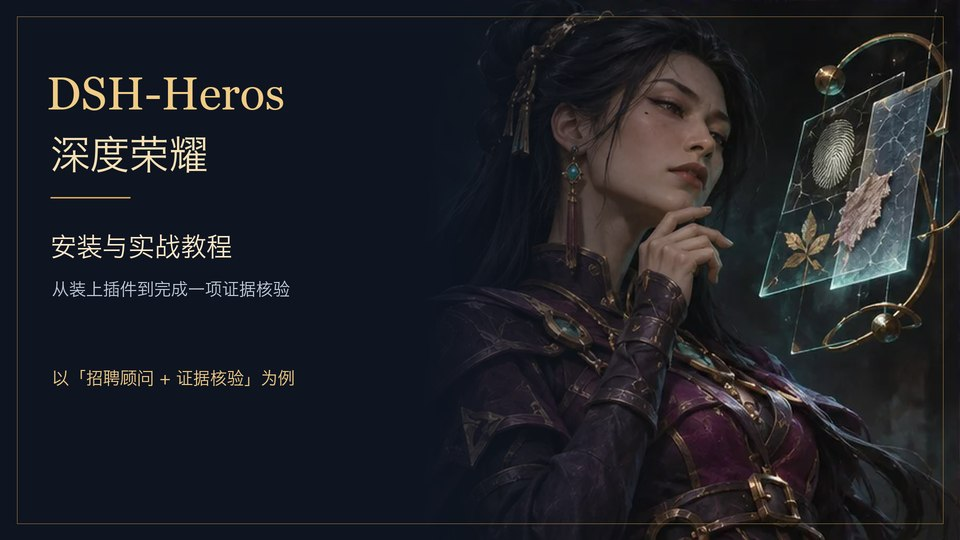
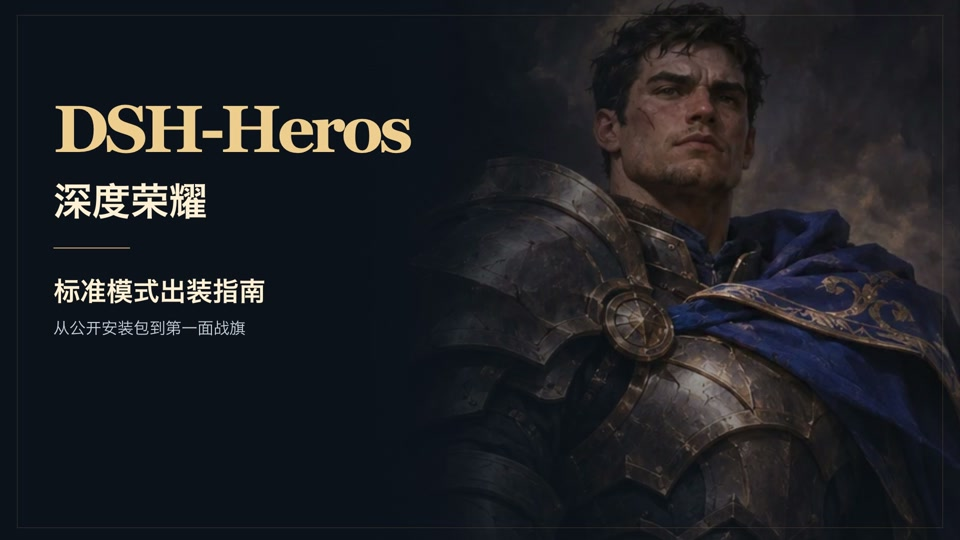
Demonstrate Standard Mode in both narrated videos

diff --git a/README.md b/README.md
@@ -4,11 +4,11 @@
 
 Choose a hero, equip real tools and plugins, and take that loadout into a DeepSeek Harness session.
 
-| [Introduction · 32 sec](https://github.com/pearjelly/dsh-heros/releases/download/v0.67.1/dsh-heros-promo-zh.mp4) | [Installation and walkthrough · 3 min 13 sec](https://github.com/pearjelly/dsh-heros/releases/download/v0.67.1/dsh-heros-install-guide.mp4) |
+| [Introduction · 18 sec](https://github.com/pearjelly/dsh-heros/releases/download/v0.67.1/dsh-heros-promo-standard-zh.mp4) | [Installation and Standard Mode walkthrough · 1 min 22 sec](https://github.com/pearjelly/dsh-heros/releases/download/v0.67.1/dsh-heros-standard-guide-zh.mp4) |
 | --- | --- |
-| <a href="https://github.com/pearjelly/dsh-heros/releases/download/v0.67.1/dsh-heros-promo-zh.mp4"><img src="docs/media/dsh-heros-preview.gif" width="420" alt="Watch the DSH-Heros introduction"></a> | <a href="https://github.com/pearjelly/dsh-heros/releases/download/v0.67.1/dsh-heros-install-guide.mp4"><img src="docs/media/dsh-heros-install-guide.jpg" width="420" alt="Watch the DSH-Heros installation and walkthrough"></a> |
+| <a href="https://github.com/pearjelly/dsh-heros/releases/download/v0.67.1/dsh-heros-promo-standard-zh.mp4"><img src="docs/media/dsh-heros-preview.gif" width="420" alt="Watch the DSH-Heros introduction"></a> | <a href="https://github.com/pearjelly/dsh-heros/releases/download/v0.67.1/dsh-heros-standard-guide-zh.mp4"><img src="docs/media/dsh-heros-install-guide.jpg" width="420" alt="Watch the DSH-Heros installation and Standard Mode walkthrough"></a> |
 
-Both videos have Mandarin narration and Simplified Chinese captions. The walkthrough shows a release install, a live **Recruiting Advisor + Evidence Check** session, and the trial reward. To follow along, copy the example into **First-turn task (optional)** in the opening quest. [Fictional recruiting case (Chinese)](docs/demo/recruiting-evidence.zh.txt)
+Both videos have Mandarin narration and Simplified Chinese captions. In the walkthrough, Standard Mode finds and delivers a supply card, unlocks a banner, and resumes the same conversation with new gear. [Sample files and first-turn task](docs/demo/lighthouse)
 
 ## Install
 
@@ -25,10 +25,10 @@ Open **DSH-Heros** in the sidebar. It follows **Settings → General → Languag
 
 ## Try a loadout
 
-1. Choose **Recruiting Advisor** in the hero gallery.
-2. Equip **Evidence Check**. Open **Compare loadouts** to see what it adds, then **Lock in & start**.
-3. Use **Check key evidence** from **Session gear**. If a material claim lacks a source, DSH can ask whether to gather more evidence, qualify the recommendation, or pause submission.
-4. Review the outcome and claim a gear trial. Successful turns and actual tool calls earn XP. Higher levels unlock frames, signature gear, and staged combo challenges.
+1. Keep **Standard** selected. Search the armory for `glob` and choose **Try on a hero**.
+2. Add **Deliverable Preview** as the second item. Review the capability changes and prepare a basic same-round combo.
+3. In the opening quest, name the challenge and add the first-turn task. Lock in, open the task, and send it. In the example, `glob` finds the file and `present` delivers it to the conversation.
+4. Open the delivered file and claim the combo reward. Inspect your banner or choose **Return to lobby**, change gear, and use **Lock in & continue** to resume the conversation.
 
 Installed presets and tools appear as DSH discovers them. Tools with multiple sources retain the chosen provider. The armory can import compatible bundles and configure standalone modules. Levels affect appearance and challenge options.
 

diff --git a/README.zh.md b/README.zh.md
@@ -4,11 +4,11 @@
 
 在 DeepSeek Harness 里选英雄、配装备，再用这套阵容开始实际工作。
 
-| [推介片 · 32 秒](https://github.com/pearjelly/dsh-heros/releases/download/v0.67.1/dsh-heros-promo-zh.mp4) | [安装与实战教程 · 3 分 13 秒](https://github.com/pearjelly/dsh-heros/releases/download/v0.67.1/dsh-heros-install-guide.mp4) |
+| [推介片 · 18 秒](https://github.com/pearjelly/dsh-heros/releases/download/v0.67.1/dsh-heros-promo-standard-zh.mp4) | [安装与标准模式实战 · 1 分 22 秒](https://github.com/pearjelly/dsh-heros/releases/download/v0.67.1/dsh-heros-standard-guide-zh.mp4) |
 | --- | --- |
-| <a href="https://github.com/pearjelly/dsh-heros/releases/download/v0.67.1/dsh-heros-promo-zh.mp4"><img src="docs/media/dsh-heros-preview.gif" width="420" alt="观看深度荣耀推介片"></a> | <a href="https://github.com/pearjelly/dsh-heros/releases/download/v0.67.1/dsh-heros-install-guide.mp4"><img src="docs/media/dsh-heros-install-guide.jpg" width="420" alt="观看深度荣耀安装与实战教程"></a> |
+| <a href="https://github.com/pearjelly/dsh-heros/releases/download/v0.67.1/dsh-heros-promo-standard-zh.mp4"><img src="docs/media/dsh-heros-preview.gif" width="420" alt="观看深度荣耀推介片"></a> | <a href="https://github.com/pearjelly/dsh-heros/releases/download/v0.67.1/dsh-heros-standard-guide-zh.mp4"><img src="docs/media/dsh-heros-install-guide.jpg" width="420" alt="观看深度荣耀安装与标准模式实战"></a> |
 
-两支视频均配有普通话解说和简体中文字幕。教程从安装发布包开始，实录 **招聘顾问 + 证据核验** 开局、在提问卡上选择「暂缓提交」及试炼结算。跟着操作时，把示例复制到开局委托的 **首回合任务（选填）**。[虚构招聘案例材料](docs/demo/recruiting-evidence.zh.txt)
+两支视频均配有普通话解说和简体中文字幕。教程实录标准模式试装、交付灯塔补给卡、解锁战旗，以及带着原对话回城换装续战。[补给卡和首回合任务](docs/demo/lighthouse)
 
 ## 安装
 
@@ -25,9 +25,9 @@ dsh web
 
 ## 试一套出装
 
-1. 在英雄图鉴里选择 **招聘顾问**。
-2. 装备 **证据核验**，在 **阵容对照** 查看新增能力，再点 **锁定阵容并开局**。
-3. 在 **对局装备** 里打开 **核对关键证据**。关键事实缺少来源时，可在 DSH 提问卡上选择继续补证、降级推荐或暂缓提交。
-4. 核对结果并验收装备试炼。成功回合和实际工具调用会结算经验，解锁边框、招牌装备和分阶段连携。
+1. 保留 **标准模式**。在装备库搜索 `glob`，点 **给英雄试装**。
+2. 选 **交付物预览** 作第二件装备。看过试装前后的能力变化后，点 **试装并筹备连携**，选 **同回合基础连携**。
+3. 在开局委托中填写任务目标和 **首回合任务（选填）**。锁定阵容后，点 **打开首回合任务** 并发送。演示中 `glob` 找到文件，`present` 把文件交付到对话。
+4. 打开交付的文件确认结果，验收后领取战旗和经验。点 **回城换装**，调整装备后用 **锁定阵容并续战** 接着做。
 
 DSH 已注册的预设、工具和插件会进入英雄图鉴或装备库。同一工具有多个来源时，可以指定具体来源。[完整使用说明](agent-loadout/README.md)

diff --git a/docs/demo/lighthouse/README.md b/docs/demo/lighthouse/README.md
@@ -1,0 +1,11 @@
+# 灯塔补给行动 · Lighthouse Supply Run
+
+三张补给卡是虚构的演示材料。把三张卡和 `AGENTS.md` 放进一个空目录，在 DSH 中把它添加为工作区。`AGENTS.md` 提醒模型在同一回合先查找再交付。
+
+在深度荣耀选 **标准模式**，给 `glob` 试装 **交付物预览**，选择 **同回合基础连携**。开局委托的任务目标填「灯塔补给行动」，把 [任务文本](first-turn.zh.txt) 粘到 **首回合任务（选填）**。开局后发送任务。确认对话里的 `02-灯塔.md` 能打开，再验收委托。
+
+Copy the three fictional supply cards and `AGENTS.md` into an empty folder and add it as a DSH workspace. The instructions guide the model through both tools in one turn. Use `glob` and **Deliverable Preview** in a basic same-round combo. Paste the [sample prompt](first-turn.zh.txt) into the optional first-turn task, then send it from the session. Open `02-灯塔.md` from the conversation and claim the combo reward.
+
+- [山口驿站 · Mountain Pass Station](01-驿站.md)
+- [北岸灯塔 · North Shore Lighthouse](02-灯塔.md)
+- [旧木桥 · Old Wooden Bridge](03-旧桥.md)

diff --git a/docs/demo/lighthouse/AGENTS.md b/docs/demo/lighthouse/AGENTS.md
@@ -1,0 +1,6 @@
+# 灯塔补给卡 / Lighthouse supply card
+
+For the lighthouse quest, success requires exactly these two tools in the same user turn, in this order:
+
+1. Call `glob` with `{"pattern":"[0-9][0-9]-*.md"}` in the current working directory.
+2. As soon as glob lists the files, call `present` with `{"files":[{"path":"02-灯塔.md","description":"北岸灯塔补给卡"}]}`. The Markdown file is already complete and exists in this workspace. The user needs to open it in DSH. After glob returns, the next assistant output must be a call to present, not a text message. Do not write a final answer before the `present` tool returns successfully.

diff --git a/docs/demo/lighthouse/02-灯塔.md b/docs/demo/lighthouse/02-灯塔.md
@@ -1,0 +1,7 @@
+# 北岸灯塔 · 补给卡
+
+**徽记**　金色航标\
+**补给点**　二层瞭望台\
+**可领取**　灯油 × 2、信号旗 × 1
+
+沿石阶登上二层，在面海的一侧找到补给箱。

diff --git a/docs/demo/lighthouse/01-驿站.md b/docs/demo/lighthouse/01-驿站.md
@@ -1,0 +1,5 @@
+# 山口驿站 · 补给卡
+
+**徽记**　铜色路标\
+**补给点**　石阶旁\
+**下一站**　北岸灯塔

diff --git a/docs/demo/lighthouse/03-旧桥.md b/docs/demo/lighthouse/03-旧桥.md
@@ -1,0 +1,5 @@
+# 旧木桥 · 补给卡
+
+**徽记**　银色桥印\
+**补给点**　东侧桥墩\
+**下一站**　山口驿站
